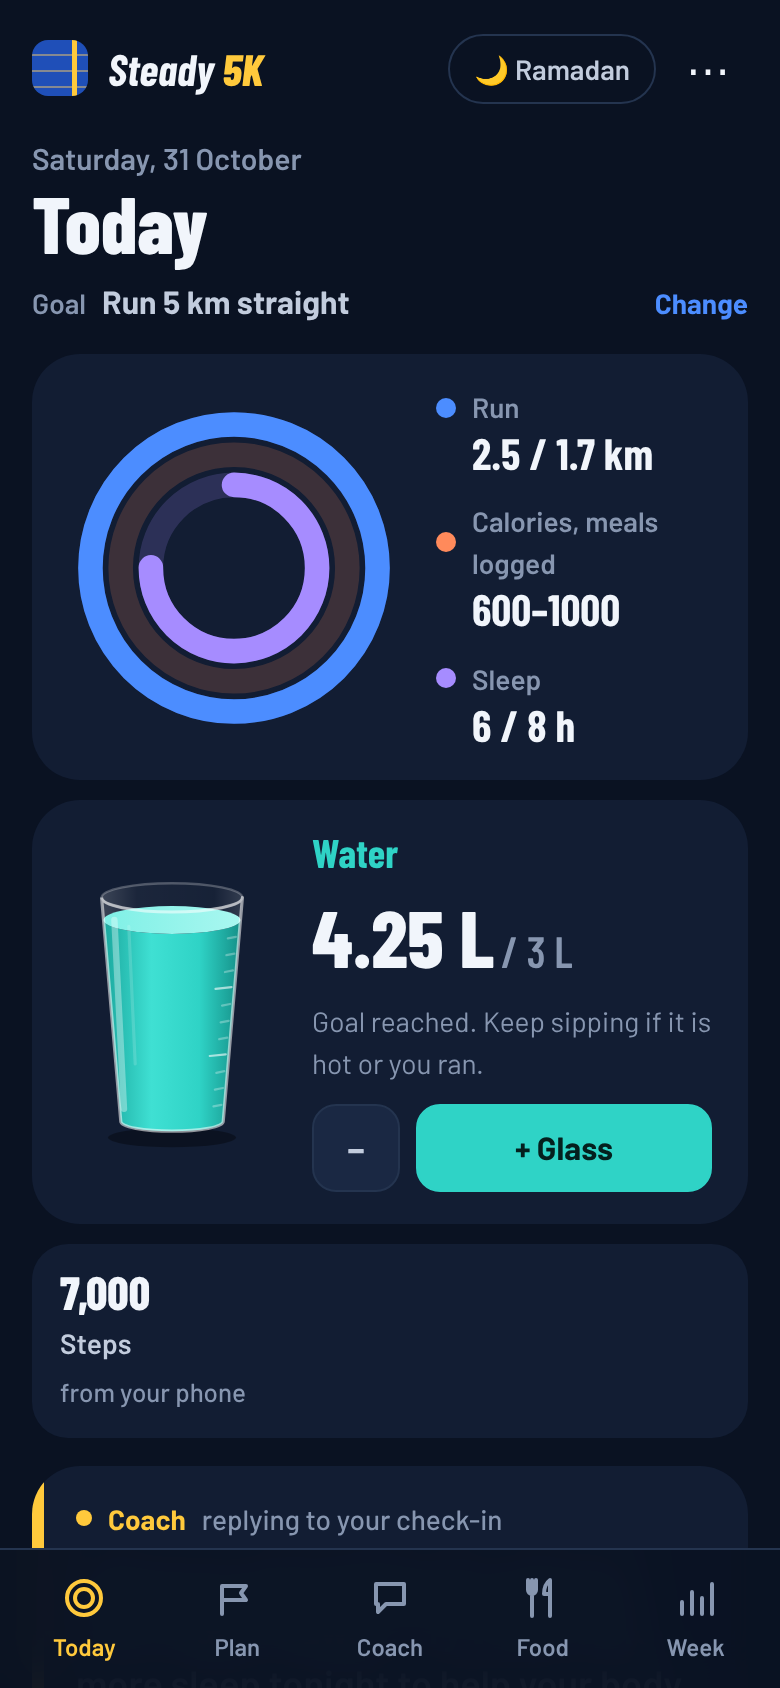
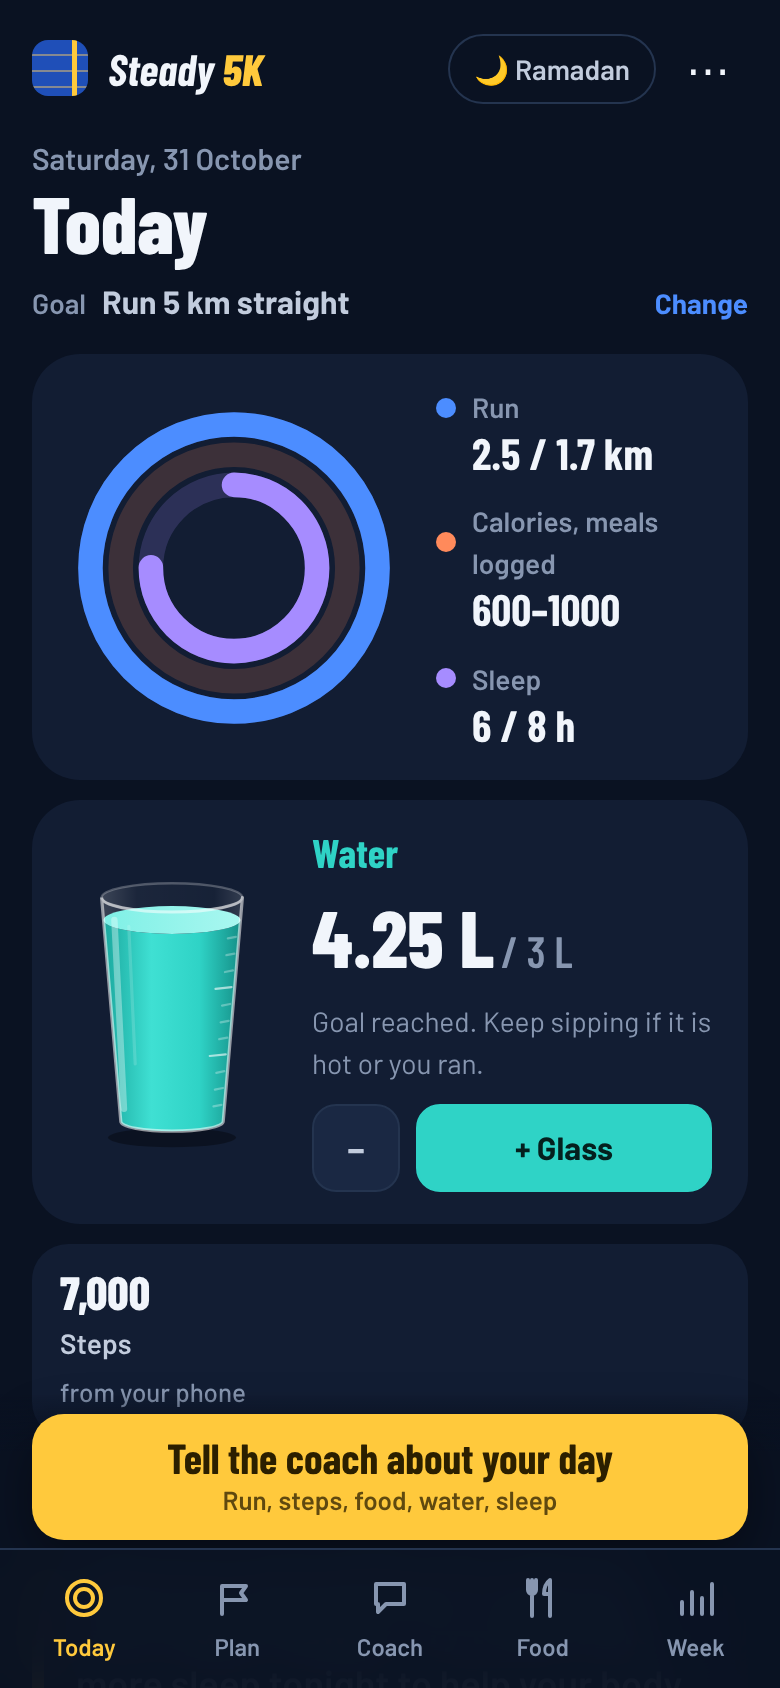
After Rizwan's second test: pin 'Tell the coach about your day' above the tab bar on Today, empty Steps tile opens the coach to log steps; Q5 updated
Claude-Session: https://claude.ai/code/session_01KnAXkYM5bv2tZhbofiWiib

Changed region(s): [[0.0308, 0.8318, 0.9846, 0.9242]]

diff --git a/app.js b/app.js
@@ -485,7 +485,7 @@
     $('legend').innerHTML = parts.map((p) => `<li><i style="background:${p.color}"></i><span>${p.label}</span><b>${p.text}</b></li>`).join('');
     const mini = (label, val, sub) => `<div class="mini"><b>${val}</b><span>${label}${sub ? `<br><small>${sub}</small>` : ''}</span></div>`;
     $('miniStats').innerHTML = [
-      mini('Steps', T.hasSteps ? T.steps.toLocaleString('en-IN') : '—', 'from your phone'),
+      T.hasSteps ? mini('Steps', T.steps.toLocaleString('en-IN'), 'from your phone') : `<button class="mini mini-add" id="stepsAdd"><b>+ Steps</b><span>Tap to add<br><small>the number from your phone</small></span></button>`,
       S.goals?.cal ? '' : mini('Food', T.food ? `${Math.round(T.kLow / 50) * 50}–${Math.round(T.kHigh / 50) * 50}` : '—', 'kcal, approx.'),
       S.ramadan || T.fasting ? mini('Fast', T.fasting ? 'Yes' : '—', 'Ramadan mode') : '',
     ].join('');
@@ -772,6 +772,11 @@
   document.querySelectorAll('[data-go]').forEach((b) => b.addEventListener('click', () => setTab(b.dataset.go)));
   document.querySelectorAll('#tabbar button').forEach((b) => b.addEventListener('click', () => setTab(b.dataset.tab)));
   $('tellCoach').addEventListener('click', () => { setTab('coach'); setTimeout(() => $('ciText').focus(), 50); });
+  $('miniStats').addEventListener('click', (e) => {
+    if (!e.target.closest('#stepsAdd')) return;
+    setTab('coach'); const t = $('ciText'); t.value = 'Steps today: '; autoGrow(t);
+    setTimeout(() => { t.focus(); t.setSelectionRange(t.value.length, t.value.length); }, 50);
+  });
   function confirmReset() {
     const b = document.querySelector('[data-act="reset"]');
     if (b.dataset.armed) return true;

diff --git a/style.css b/style.css
@@ -298,3 +298,12 @@ h1 { font-size: 46px; font-weight: 800; font-style: italic; margin: 14px 0 12px;
 .glass3d { width: 96px; margin: 0 auto; }
 .glass3d svg { width: 96px; height: auto; display: block; overflow: visible; }
 .water-card { grid-template-columns: 104px 1fr; }
+
+/* ---------- Always-visible "Tell the coach" button on Today ---------- */
+.tell-dock { position: fixed; left: 0; right: 0; bottom: calc(64px + env(safe-area-inset-bottom)); z-index: 7; padding: 10px 16px; background: linear-gradient(to top, var(--bg) 65%, transparent); }
+.tell-btn { display: flex; flex-direction: column; align-items: center; gap: 0; max-width: 488px; margin: 0 auto; padding: 10px 14px; box-shadow: 0 10px 28px rgba(0,0,0,.4); }
+.tell-btn span { font-size: 21px; line-height: 1.1; }
+.tell-btn small { font-family: var(--body); font-size: 13px; font-weight: 600; opacity: .75; }
+#tab-today { padding-bottom: 170px; }
+.mini-add { text-align: left; border: 1.5px dashed var(--line); cursor: pointer; color: var(--ink); }
+.mini-add b { color: var(--c-run); }

diff --git a/index.html b/index.html
@@ -150,7 +150,7 @@
           <button class="btn-link left" data-go="plan">See the full session</button>
         </section>
 
-        <button id="tellCoach" class="btn-primary">Tell the coach about your day</button>
+        <div class="tell-dock"><button id="tellCoach" class="btn-primary tell-btn"><span>Tell the coach about your day</span><small>Run, steps, food, water, sleep</small></button></div>
         <p class="notice">Not medical advice. Steady does not diagnose or prescribe. Prototype for a class project; use made-up data only.</p>
       </main>
 

diff --git a/REPORT.md b/REPORT.md
@@ -8,7 +8,7 @@
 
 - **45 one- and two-star reviews** from Trustpilot across three apps: Strava (22), MyFitnessPal (7) and HealthifyMe (16). Full table with quotes: [docs/q1-research-notes.md](docs/q1-research-notes.md). Caveat: Trustpilot reviewers are mostly paying customers, so billing complaints are probably over-represented.
 - **Three people**, by WhatsApp questionnaire (notes in [docs/](docs/)): **Rizwan** (22, my target customer, current but dissatisfied Strava user), **Respondent A** (quit HealthifyMe after one week) and **Respondent B** (tried eight fitness apps and stopped most of them).
-- **Two published sources:** Kidman et al. (2024), a scoping review of when and why adults abandon lifestyle apps, and Cordeiro et al. (2015), a study of 141 food loggers and 5,526 forum posts.
+- **Two published sources:** Kidman et al. (2024), a review of why adults abandon lifestyle apps, and Cordeiro et al. (2015), a study of 141 food loggers.
 
 **My three most important reasons, ranked:**
 
@@ -69,9 +69,9 @@ A form-based app would give Rizwan six input screens and a fixed plan; Q1 says t
 
 **What it does on its own, without being asked:**
 
-- **Speaks first.** When Rizwan opens the app, today's message is already written: the session, a water target and one nudge. A browser app cannot reliably send phone notifications without an install, so this is the honest version of "message me first" (see Q4, hardest call 2).
+- **Speaks first.** When Rizwan opens the app, today's message is already written: the session and one nudge (Q4, hardest call 2).
 - **Reschedules the plan.** If he misses runs, it rebuilds the remaining weeks and, if needed, moves the 5K date, without guilt-tripping (F09, catch-up planning).
-- **Switches to Ramadan mode** when his messages mention roza, sehri or iftar. Runs move to after iftar and the water target is split between iftar and sehri. It tells him it has switched, and he can switch it back.
+- **Switches to Ramadan mode** when he mentions roza, sehri or iftar: runs move to after iftar, water to between iftar and sehri. He can switch it back.
 
 **What it must never do:**
 
@@ -143,7 +143,7 @@ That is 9 of 18 class features built in some form, most of them reshaped, plus 8
 
 *First two minutes.* Rizwan opens the link and writes his goal in his own words ("run 5km straight and monitor my calorie intake"); the AI turns it into two goals. Two taps say how far he can run before walking and how often he can run, and the plan starts at step 3 of 13 with a finish line in mid-December. No sign-up, no form.
 
-*A normal day.* The coach's message is waiting when he opens the app, above three goal rings for run, water and sleep; the Plan tab gives the full warm-up, run and cool-down. In the evening he sends one check-in, typed or spoken: "ran 2.5k, walked twice, 7k steps, 3 bottles water, slept 1 to 7, rice and fish curry for lunch." The app fills in run, steps, water, sleep and an approximate calorie range, replies in two lines, and moves the plan up, holds it, or eases off. If he reports back pain, tomorrow gets easier; if he reports chest tightness, training pauses.
+*A normal day.* The coach's message is waiting above his goal rings; the Plan tab has the full session. In the evening he sends one check-in, typed or spoken: "ran 2.5k, walked twice, 7k steps, 3 bottles water, slept 1 to 7, rice and fish curry for lunch." The app fills in run, steps, water, sleep and an approximate calorie range, replies in two lines, and moves the plan up, holds it, or eases off. If he reports back pain, tomorrow gets easier; if he reports chest tightness, training pauses.
 
 *Screenshots.* Rendered from the deployed code (final design), replaying the replies the live AI gave at steady-5k.vercel.app on 31 October.
 
@@ -183,7 +183,9 @@ That is 9 of 18 class features built in some form, most of them reshaped, plus 8
 
 Separately, and as my own call from his Q2 answer rather than from the test, I added an optional calorie goal he sets himself, with meal ideas (F04), and a water glass (N09).
 
-The second point overturned a call from Q2 and Q4: he ranked calories last in the interview, but once tracking cost him nothing, he wanted it. The new version has not yet been re-tested with him.
+**Second test, same evening.** He did not know how to log his steps, and could not find "Tell the coach about your day" after scrolling. I pinned that button above the tab bar on Today, labelled "Run, steps, food, water, sleep", and made an empty Steps tile open the coach with "Steps today:" already typed.
+
+The second point overturned a call from Q2 and Q4: he ranked calories last in the interview, but once tracking cost him nothing, he wanted it.
 
 ## References
 
